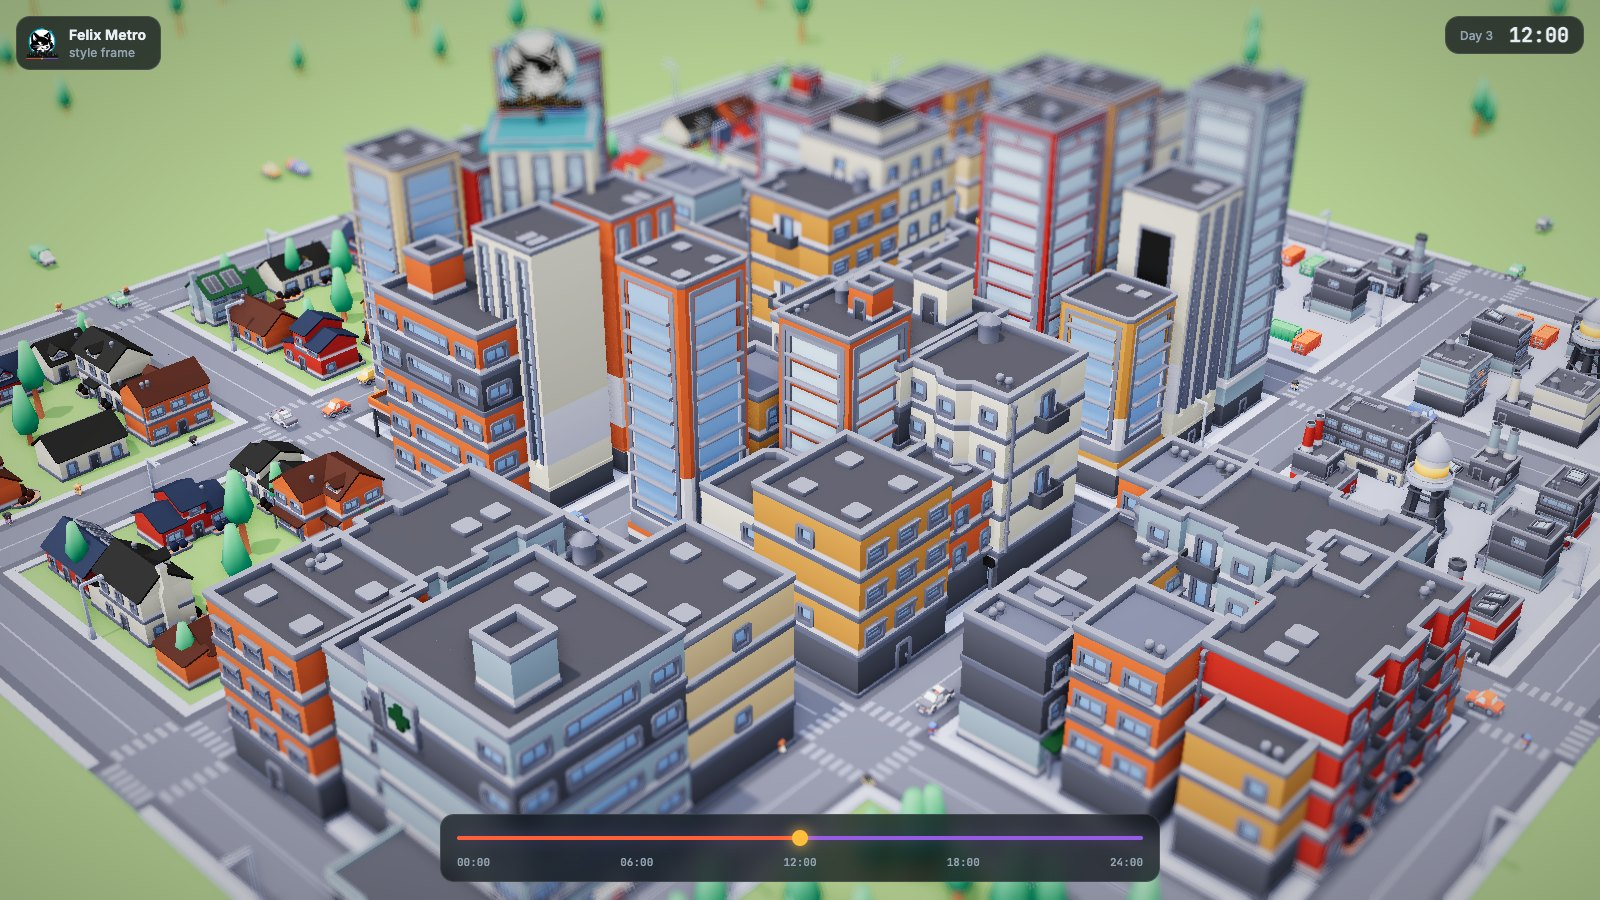
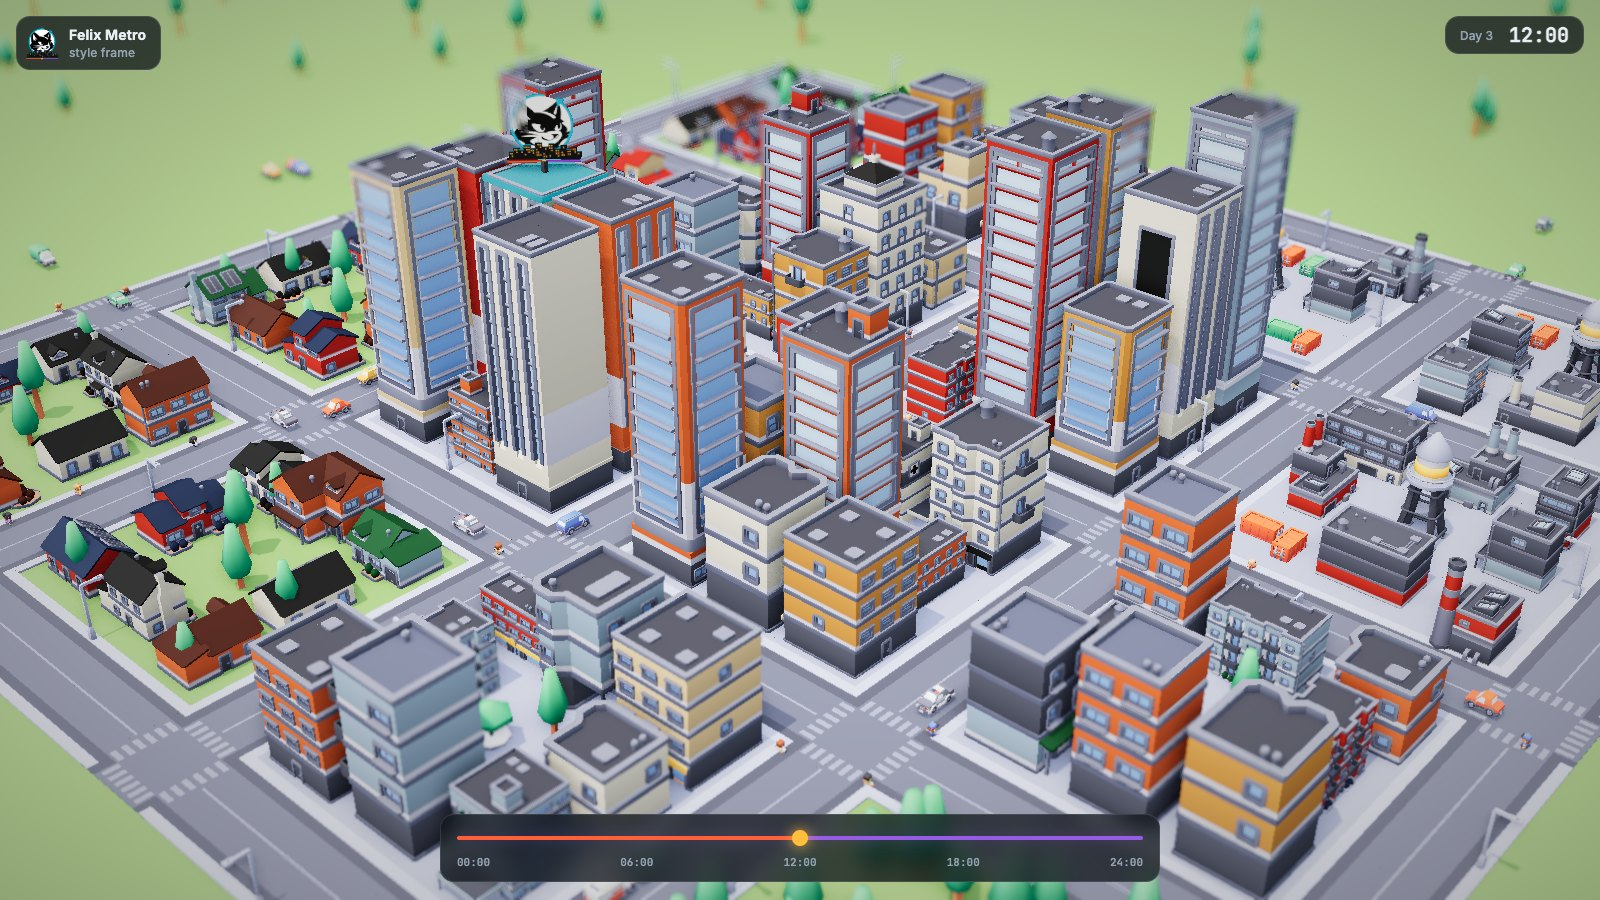
Style frame: no overlapping buildings, sharp Felix sign (#43)

diff --git a/prototype/style-frame.html b/prototype/style-frame.html
@@ -77,7 +77,7 @@ const PALETTE = {
   grassFar: 0x4d8a4a,
   water: 0x3f8fb0,
   lamp: 0xffc46b,
-  window: new THREE.Color(1.0, 0.72, 0.38),
+  window: new THREE.Color(1.0, 0.66, 0.32),
   headlight: 0xfff1d0,
   taillight: 0xff3b2a,
 };
@@ -211,7 +211,8 @@ function materialFor(pack, src, lit, v = -1) {
     map.anisotropy = 8;
     const m = new THREE.MeshStandardMaterial({ map, roughness: 0.82, metalness: 0.0, envMapIntensity: 0.45 });
     if (lit > 0) {
-      if (!packMaterials.has(`${pack}:mask`)) packMaterials.set(`${pack}:mask`, windowMask(map));
+      // From the original colormap: a recoloured wall can look like glass.
+      if (!packMaterials.has(`${pack}:mask`)) packMaterials.set(`${pack}:mask`, windowMask(src.map));
       m.emissiveMap = packMaterials.get(`${pack}:mask`);
       m.emissive = PALETTE.window.clone();
       m.userData.lit = lit;
@@ -223,6 +224,7 @@ function materialFor(pack, src, lit, v = -1) {
 
 const litMaterials = () => [...packMaterials.values()].filter((m) => m.isMaterial && m.userData.lit);
 
+const LOT = 0.9;
 async function place(pack, name, x, z, rotY = 0, scale = 1, lit = 0, v = -1) {
   const gltf = await model(pack, name);
   const o = gltf.scene.clone(true);
@@ -236,6 +238,12 @@ async function place(pack, name, x, z, rotY = 0, scale = 1, lit = 0, v = -1) {
   o.position.set(x, 0, z);
   o.rotation.y = rotY;
   o.scale.setScalar(scale);
+  // Some Kenney buildings are wider than a tile; shrink those to fit their lot.
+  if (['commercial', 'suburban', 'industrial'].includes(pack)) {
+    const size = new THREE.Box3().setFromObject(o).getSize(new THREE.Vector3());
+    const widest = Math.max(size.x, size.z);
+    if (widest > LOT) o.scale.multiplyScalar(LOT / widest);
+  }
   scene.add(o);
   return o;
 }
@@ -421,16 +429,18 @@ for (const r of ROADS.slice(1, 4)) {
 
 // The Felix tower: the tallest building downtown, a cyan crown and the cat on its roof.
 const CYAN = new THREE.Color().setHSL(192 / 360, 0.9, 0.46);
-const tower = await place('commercial', 'building-skyscraper-e', -2, 2, Math.PI / 4, 0.82, 0.3, 4);
-const top = 4.08 * 0.82;
+const tower = await place('commercial', 'building-skyscraper-e', -2, 2, 0, 1, 0.3, 4);
+const towerBox = new THREE.Box3().setFromObject(tower);
+const towerSize = towerBox.getSize(new THREE.Vector3());
+const top = towerBox.max.y;
 const crownMat = new THREE.MeshStandardMaterial({ color: 0x1b2430, emissive: CYAN, emissiveIntensity: 1.2, roughness: 0.4 });
-const crown = new THREE.Mesh(new THREE.BoxGeometry(1.1, 0.07, 1.04), crownMat);
-crown.position.set(-2, top - 0.05, 2); crown.rotation.y = Math.PI / 4;
+const crown = new THREE.Mesh(new THREE.BoxGeometry(towerSize.x + 0.02, 0.07, towerSize.z + 0.02), crownMat);
+crown.position.set(-2, top - 0.05, 2);
 const logoTex = await new THREE.TextureLoader().loadAsync('../docs/brand/felix-metro-mark.png');
 logoTex.colorSpace = THREE.SRGBColorSpace; logoTex.anisotropy = 8;
 const signMat = new THREE.MeshStandardMaterial({ map: logoTex, emissiveMap: logoTex, emissive: 0xffffff, emissiveIntensity: 0.15, alphaTest: 0.4, side: THREE.DoubleSide, roughness: 0.6 });
-const sign = new THREE.Mesh(new THREE.PlaneGeometry(0.95, 0.95), signMat);
-sign.position.set(-2, top + 0.55, 2); sign.rotation.y = Math.PI / 4; sign.castShadow = true;
+const sign = new THREE.Mesh(new THREE.PlaneGeometry(0.8, 0.8), signMat);
+sign.position.set(-2, top + 0.48, 2); sign.rotation.y = Math.PI / 4; sign.castShadow = true;
 const mast = new THREE.Mesh(new THREE.BoxGeometry(0.05, 0.12, 0.05), new THREE.MeshStandardMaterial({ color: 0x3d434c }));
 mast.position.set(-2, top + 0.06, 2);
 scene.add(crown, sign, mast);
@@ -499,7 +509,7 @@ function setTime(hour) {
   renderer.toneMappingExposure = s.exp;
   scene.environmentIntensity = 0.06 + 0.5 * (1 - n);
   ground.material.color.set(PALETTE.grass).lerp(new THREE.Color(0x1d2a2a), n * 0.6);
-  for (const m of litMaterials()) m.emissiveIntensity = n * 1.6 * m.userData.lit;
+  for (const m of litMaterials()) m.emissiveIntensity = n * 0.85 * m.userData.lit;
   const lampOn = smooth(THREE.MathUtils.clamp((n - 0.25) / 0.4, 0, 1));
   poolMat.opacity = lampOn * 0.55;
   glowMat.opacity = lampOn * 0.9;
@@ -507,7 +517,7 @@ function setTime(hour) {
   headMat.opacity = lampOn;
   tailMat.opacity = lampOn * 0.8;
   beamMat.opacity = lampOn * 0.35;
-  bloom.strength = 0.1 + n * 0.6;
+  bloom.strength = 0.1 + n * 0.35;
   crownMat.emissiveIntensity = 0.5 + n * 2.5;
   signMat.emissiveIntensity = 0.12 + n * 0.3;
   const hh = Math.floor(hour) % 24, mm = Math.floor((hour % 1) * 60);
@@ -534,22 +544,35 @@ if (tier === 'high') {
 const bloom = new UnrealBloomPass(new THREE.Vector2(innerWidth, innerHeight), 0.4, 0.45, 1.0);
 composer.addPass(bloom);
 
-// Tilt-shift: blur grows with distance from a horizontal band, so the city reads as a model.
+// Tilt-shift as a miniature photo: blur grows with distance from the focus
+// plane through the orbit target, so anything at that depth, however tall, stays sharp.
+const depthRT = new THREE.WebGLRenderTarget(innerWidth, innerHeight);
+depthRT.depthTexture = new THREE.DepthTexture(innerWidth, innerHeight);
+const depthMat = new THREE.MeshBasicMaterial({ colorWrite: false });
 const TiltShift = {
-  uniforms: { tDiffuse: { value: null }, resolution: { value: new THREE.Vector2(innerWidth, innerHeight) }, focus: { value: 0.46 }, band: { value: 0.16 }, amount: { value: tier === 'low' ? 0 : 7.0 } },
+  uniforms: {
+    tDiffuse: { value: null }, tDepth: { value: depthRT.depthTexture },
+    resolution: { value: new THREE.Vector2(innerWidth, innerHeight) },
+    cameraNear: { value: camera.near }, cameraFar: { value: camera.far },
+    focus: { value: 19 }, band: { value: 2.2 }, range: { value: 9.0 }, amount: { value: tier === 'low' ? 0 : 7.0 },
+  },
   vertexShader: 'varying vec2 vUv; void main(){ vUv = uv; gl_Position = projectionMatrix * modelViewMatrix * vec4(position, 1.0); }',
   fragmentShader: `
-    uniform sampler2D tDiffuse; uniform vec2 resolution; uniform float focus, band, amount; varying vec2 vUv;
+    #include <packing>
+    uniform sampler2D tDiffuse, tDepth; uniform vec2 resolution;
+    uniform float cameraNear, cameraFar, focus, band, range, amount; varying vec2 vUv;
+    float dist(vec2 uv) { return -perspectiveDepthToViewZ(texture2D(tDepth, uv).x, cameraNear, cameraFar); }
     void main() {
-      float d = max(abs(vUv.y - focus) - band, 0.0);
-      float r = amount * smoothstep(0.0, 0.35, d);
+      float r = amount * smoothstep(0.0, range, abs(dist(vUv) - focus) - band);
       if (r < 0.01) { gl_FragColor = texture2D(tDiffuse, vUv); return; }
       vec4 sum = vec4(0.0); float w = 0.0;
       for (int i = 0; i < 12; i++) {
         float a = float(i) * 2.39996;
-        float rr = sqrt(float(i) / 12.0) * r;
-        vec2 o = vec2(cos(a), sin(a)) * rr / resolution;
-        sum += texture2D(tDiffuse, vUv + o); w += 1.0;
+        vec2 o = vec2(cos(a), sin(a)) * sqrt(float(i) / 12.0) * r / resolution;
+        // A sharp foreground pixel must not bleed into a blurred one behind it.
+        float rr = amount * smoothstep(0.0, range, abs(dist(vUv + o) - focus) - band);
+        float k = clamp(rr / max(r, 0.001), 0.25, 1.0);
+        sum += texture2D(tDiffuse, vUv + o) * k; w += k;
       }
       gl_FragColor = sum / w;
     }`,
@@ -602,6 +625,17 @@ function frame() {
   move(people, dt, false);
   for (const p of people) p.mixer.update(dt);
   controls.update();
+  if (tier !== 'low') {
+    const shown = glows.map((g) => g.visible);
+    glows.forEach((g) => (g.visible = false));
+    scene.overrideMaterial = depthMat;
+    renderer.setRenderTarget(depthRT);
+    renderer.render(scene, camera);
+    renderer.setRenderTarget(null);
+    scene.overrideMaterial = null;
+    glows.forEach((g, i) => (g.visible = shown[i]));
+    tilt.uniforms.focus.value = camera.position.distanceTo(controls.target);
+  }
   composer.render();
   requestAnimationFrame(frame);
 }
@@ -615,6 +649,7 @@ addEventListener('resize', () => {
   renderer.setSize(innerWidth, innerHeight);
   composer.setSize(innerWidth, innerHeight);
   tilt.uniforms.resolution.value.set(innerWidth, innerHeight);
+  depthRT.setSize(innerWidth, innerHeight);
 });
 </script>
 </body>

diff --git a/docs/art.md b/docs/art.md
@@ -37,7 +37,8 @@ construction cones and barriers, which may be enough for M4.
 - **Lit windows come from the same texture.** The colormap's light-blue swatches are windows; a mask of them is the emissive map, scaled by how dark it is. Towers use a lower level because their glass is one large swatch.
 - **Light pools are decals.** Street lights and headlights are additive sprites and ground decals, not real lights, so hundreds cost almost nothing. They are hidden from the ambient occlusion pass.
 - **Time of day is one function.** Sky, fog, sun, hemisphere light, exposure, window light, lamps and headlights all come from the hour. The sun sets in the west (+x), on the camera's side, so evening light falls on the faces in view.
-- **Post processing**, in order: ambient occlusion (high tier only), bloom with a threshold of 1 so only lights glow, tilt-shift blur outside a horizontal band, tone mapping, then a small saturation lift and vignette.
+- **Post processing**, in order: ambient occlusion (high tier only), bloom with a threshold of 1 so only lights glow, tilt-shift blur, tone mapping, then a small saturation lift and vignette. The blur is by depth, like a miniature photo: it grows with distance from the focus plane through the orbit target, so a tall building at that depth stays sharp to its roof.
+- **Buildings fit their lot.** Some Kenney buildings are wider than a tile, so each is scaled down to fit 0.9 of its lot and none overlap.
 - **Brand**: Inter and JetBrains Mono, cyan `hsl(192, 90%, 46%)` for Felix accents, amber for light, and coral to violet for the timeline. The Felix tower downtown carries the mark.
 
 ## Using the style frame
